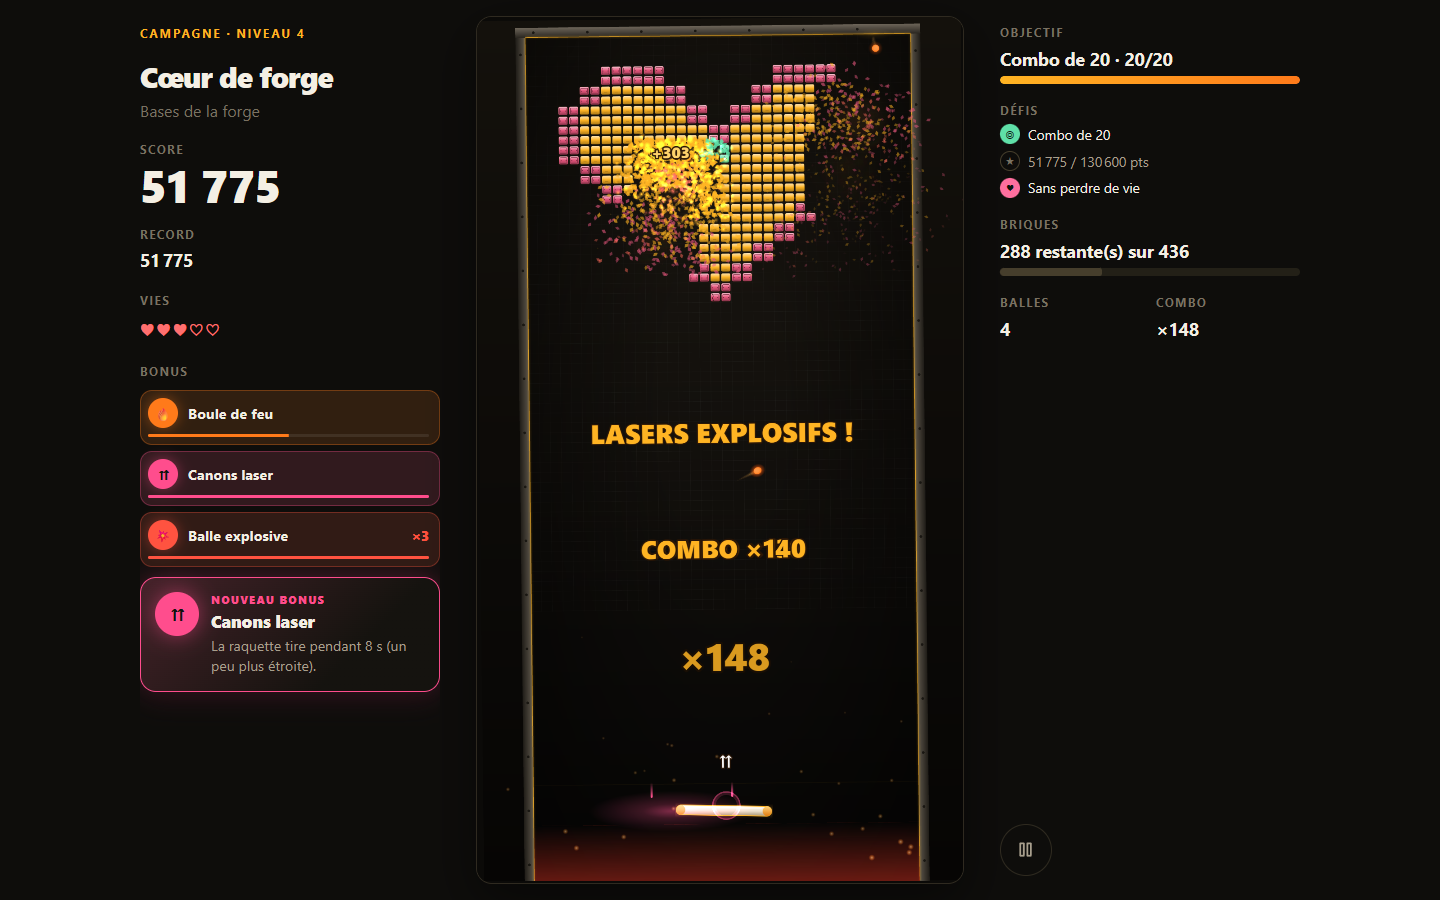
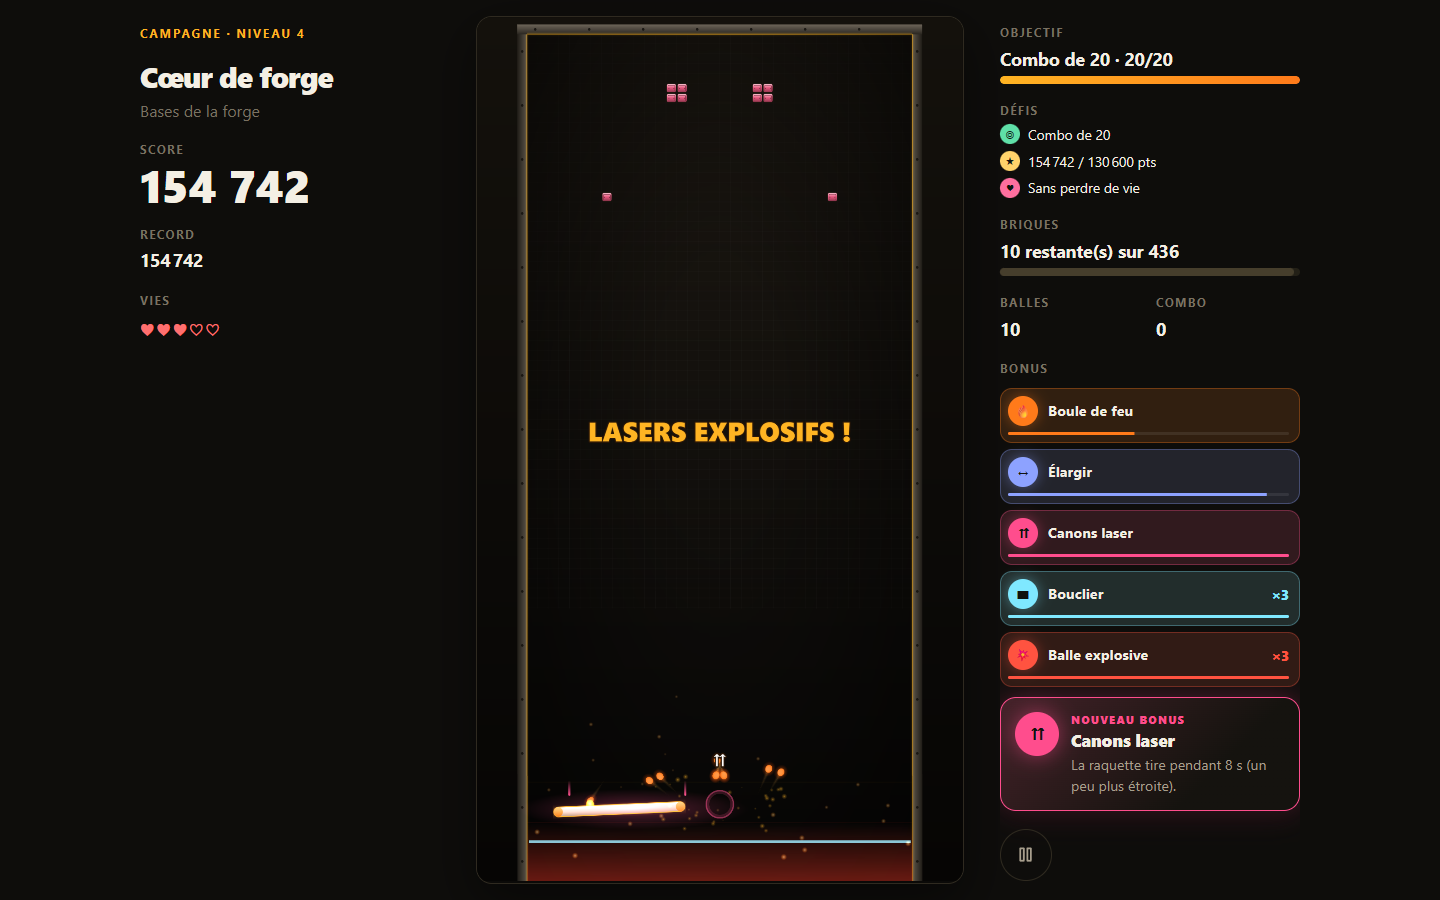
feat(hud): Bonus panel in the right column, under balls and combo

diff --git a/src/ui/app.ts b/src/ui/app.ts
@@ -2232,20 +2232,6 @@ export class App {
             { class: 'hud-block' },
             h('p', { class: 'hud-label' }, t('hud.lives')),
             ref('lives', h('p', { class: 'hud-lives' }))
-          ),
-          h(
-            'section',
-            { class: 'bonus-panel', 'aria-label': t('bonus.title') },
-            h('p', { class: 'hud-label' }, t('bonus.title')),
-            ref(
-              'effects',
-              h(
-                'ul',
-                { class: 'bonus-list', role: 'list' },
-                h('li', { class: 'bonus-empty' }, t('bonus.empty'))
-              )
-            ),
-            ref('bonusCard', h('div', { class: 'bonus-card', role: 'status', hidden: true }))
           )
         ),
         slot,
@@ -2316,6 +2302,20 @@ export class App {
               h('p', { class: 'hud-label' }, t('hud.combo')),
               ref('combo', h('p', { class: 'hud-value' }, '0'))
             )
+          ),
+          h(
+            'section',
+            { class: 'bonus-panel', 'aria-label': t('bonus.title') },
+            h('p', { class: 'hud-label' }, t('bonus.title')),
+            ref(
+              'effects',
+              h(
+                'ul',
+                { class: 'bonus-list', role: 'list' },
+                h('li', { class: 'bonus-empty' }, t('bonus.empty'))
+              )
+            ),
+            ref('bonusCard', h('div', { class: 'bonus-card', role: 'status', hidden: true }))
           ),
           pauseButton('hud-pause')
         ),

diff --git a/CHANGELOG.md b/CHANGELOG.md
@@ -24,6 +24,7 @@ All notable changes to Bounce Forge. Format based on
   bonuses for lives left, a flawless run, the objective and speed (par time).
 - Save format v8 (diamond medals, collected challenges, trophies, statistics); older saves
   migrate.
+- The Bonus panel moves to the right column, under balls and combo.
 
 ## [1.2.1] — 2026-11-12
 
